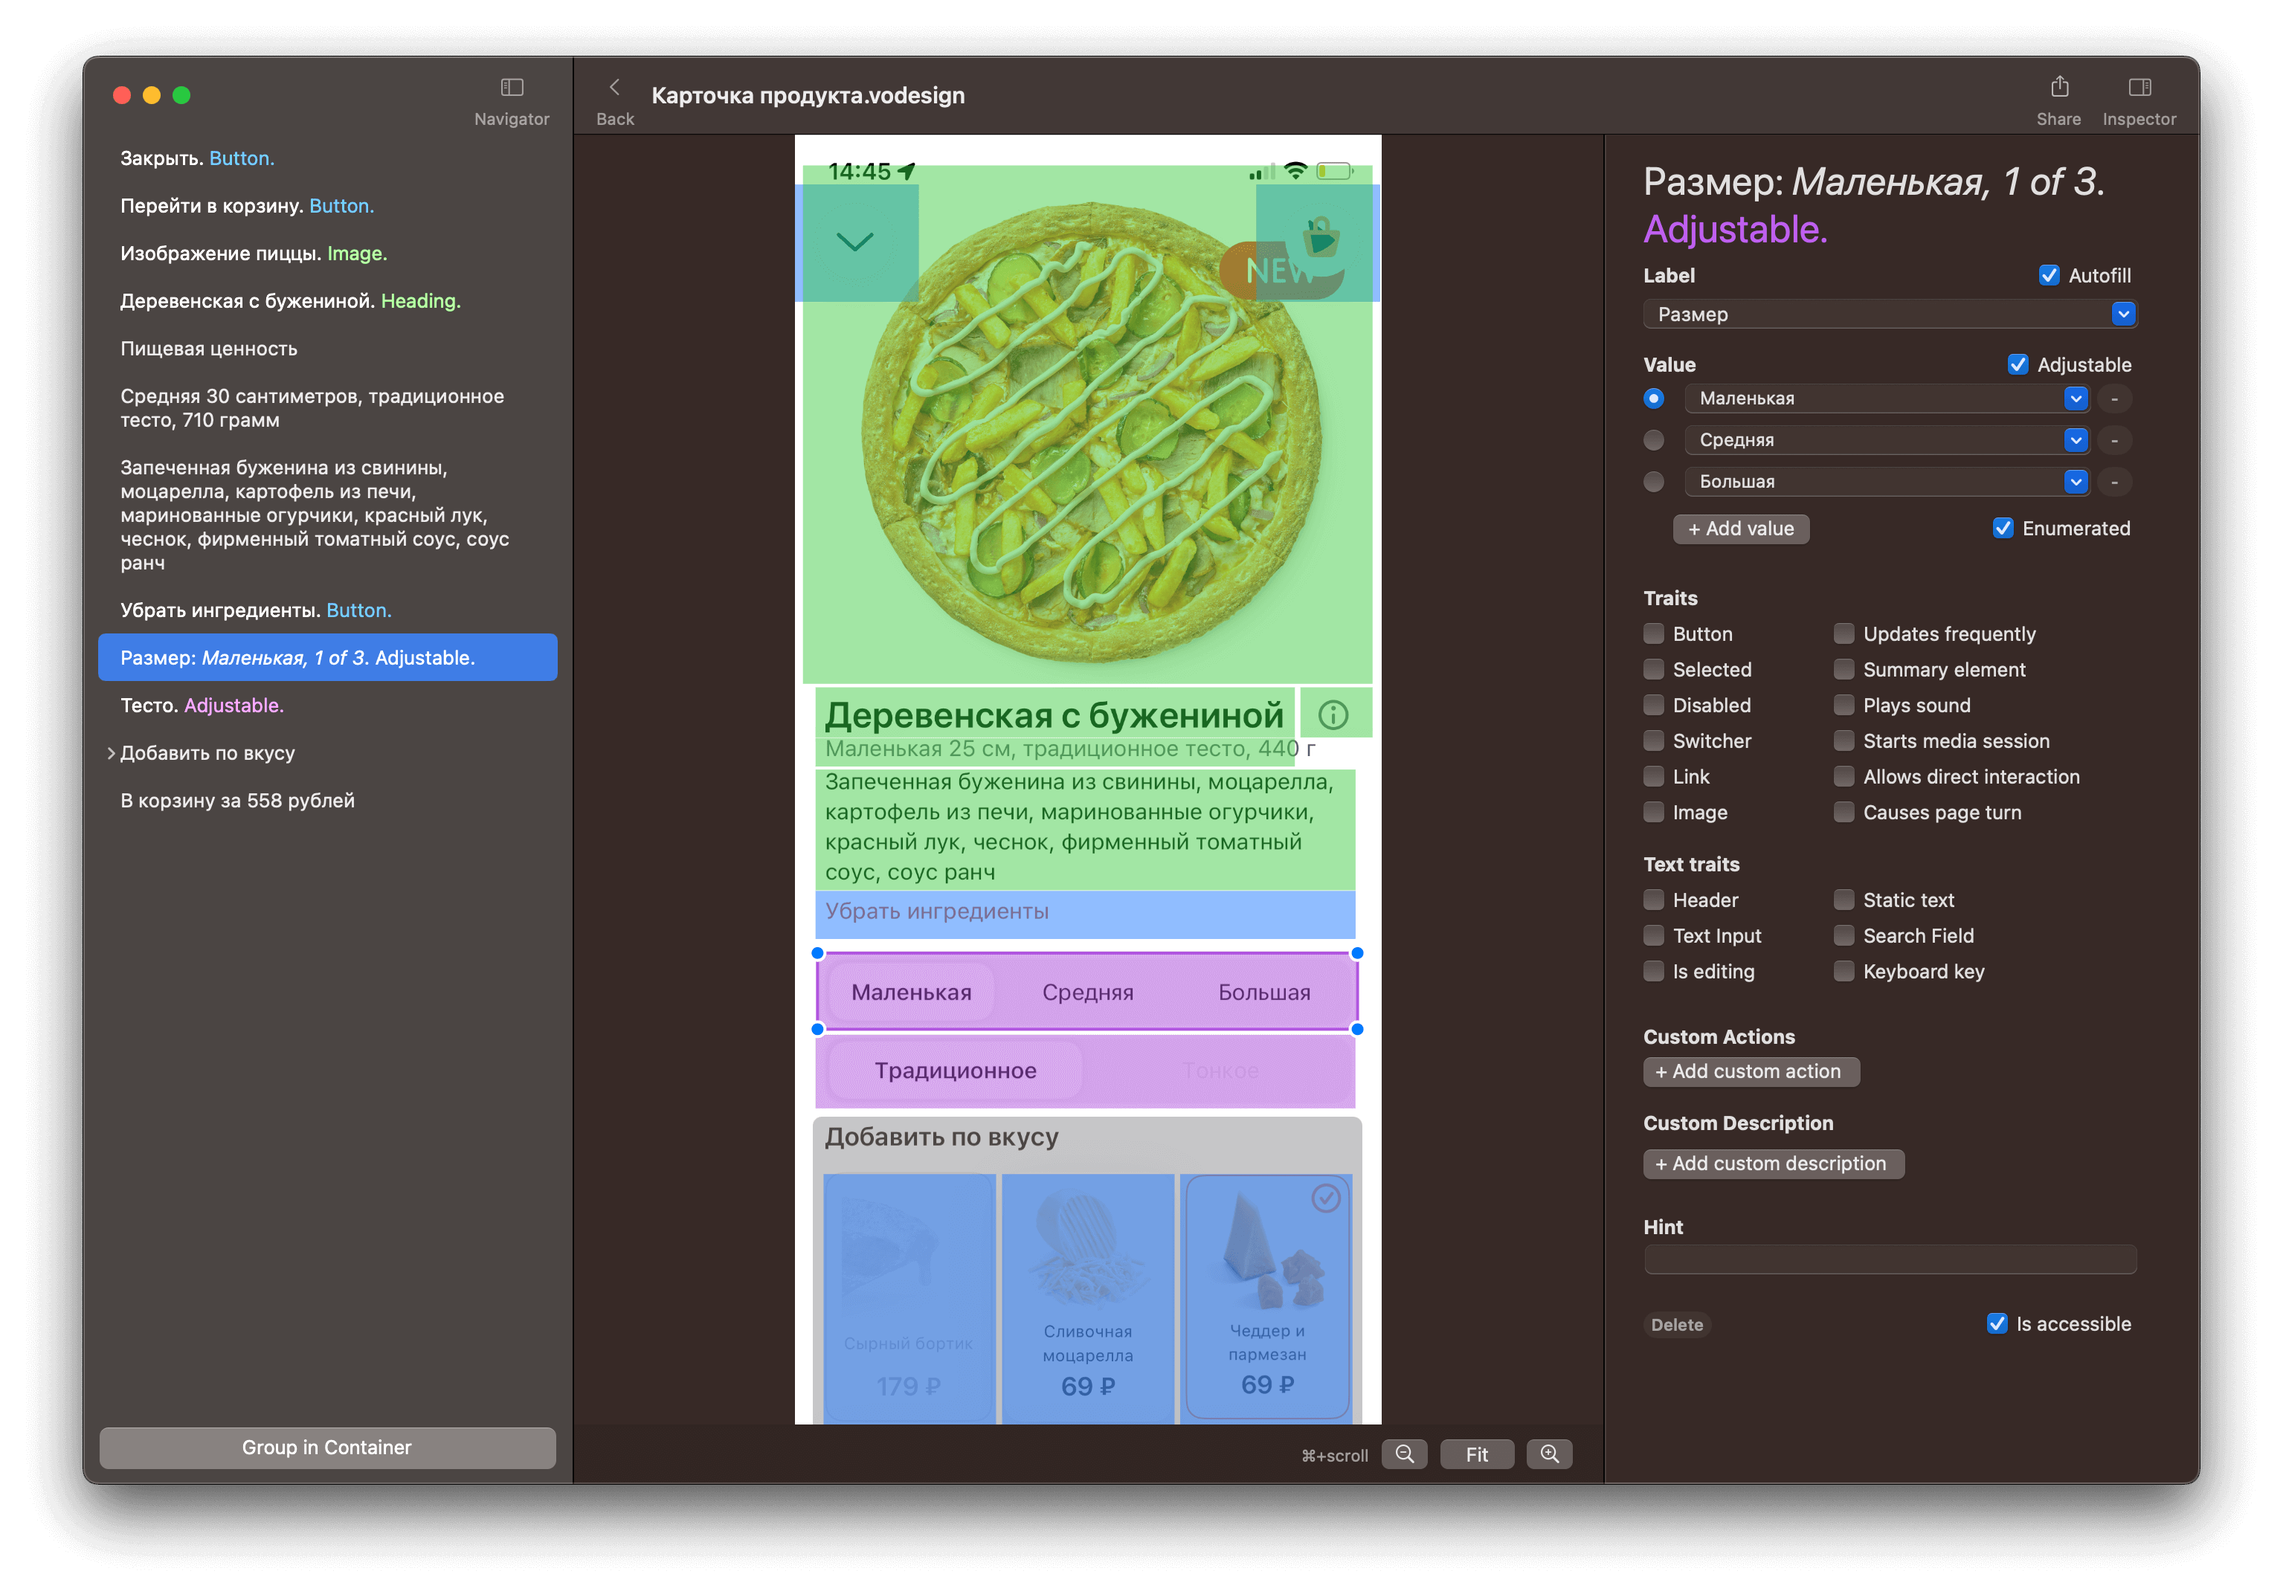
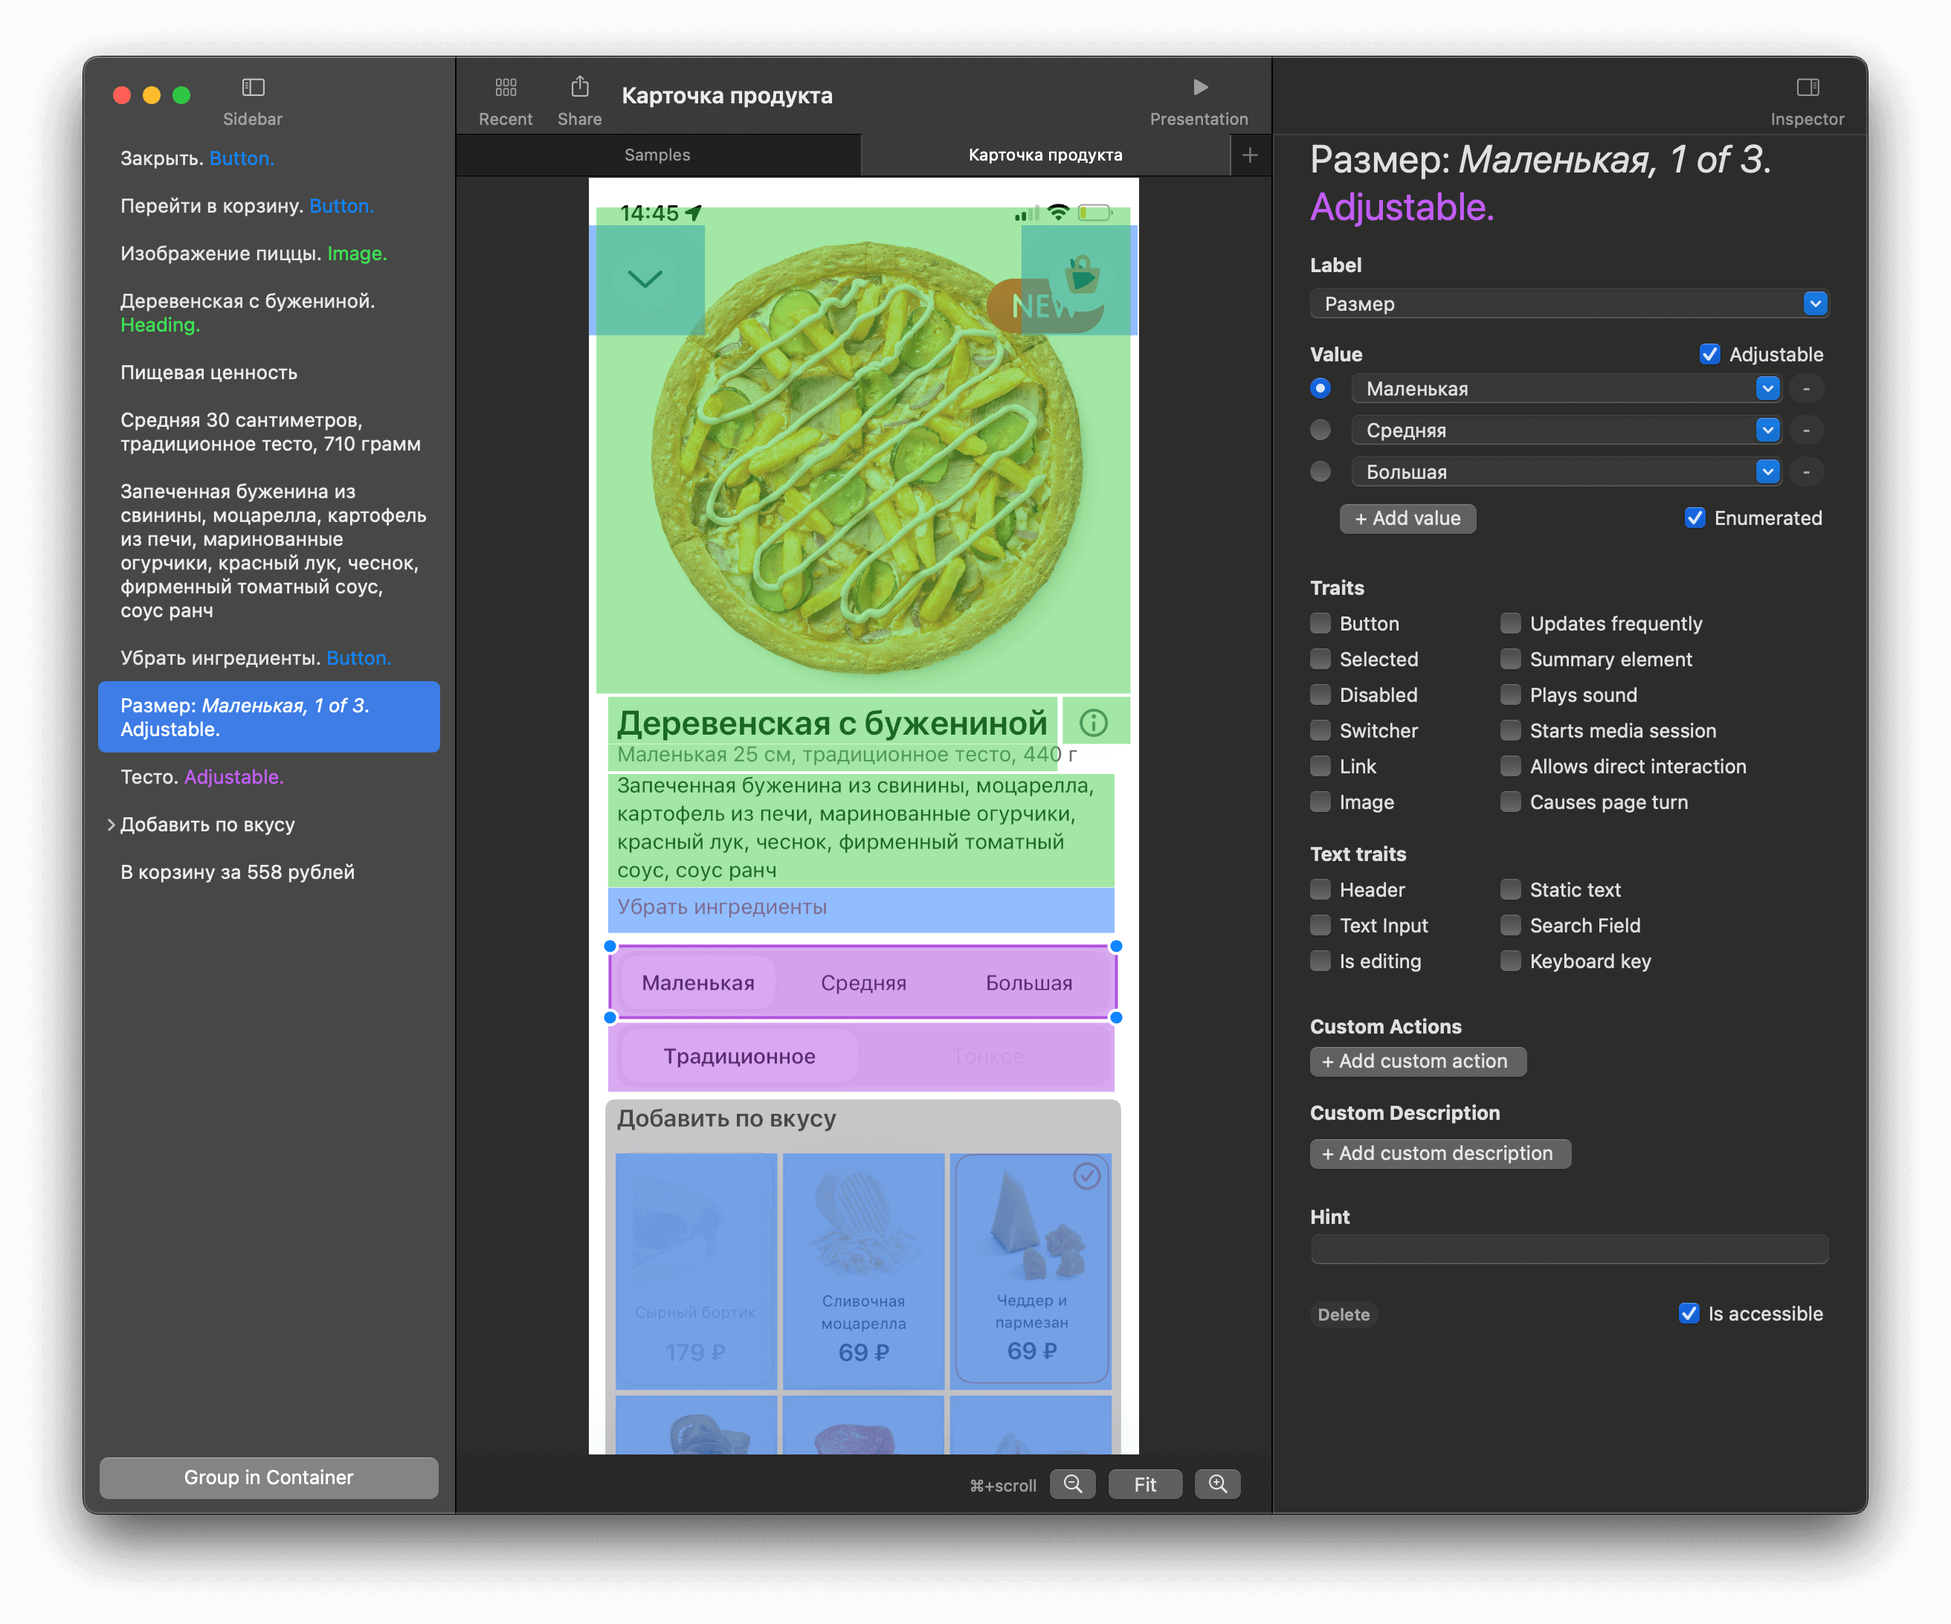
Update russian version

Changed region(s): [[0.0312, 0.0312, 0.9688, 0.9375], [0.6562, 0.375, 0.9062, 0.7812], [0.7188, 0.8125, 0.75, 0.8438]]

diff --git a/voice-over-designer/ru.html b/voice-over-designer/ru.html
@@ -163,6 +163,23 @@
   </section>
 
   <section>
+  <h2>Презентация</h2>
+    <p>Вы можете открыть документ в режиме Презентации, чтобы обсудить его коллегами или протестировать самостоятельно. С помощью стрелок на клавиатуре можно перемещаться по элементам — почти как в VoiceOver на телефоне</p>
+
+    <picture>
+      <source
+      srcset="ru/PresentationDark.png"
+      media="(prefers-color-scheme: dark)"
+      />
+      <img
+      class="featureImage"
+      src="ru/PresentationLight.png"
+      />
+    </picture>
+
+  </section>
+
+  <section>
     <h2>Прототипируйте</h2>
 
     <p>После разметки откройте макет на айфоне в приложении VoiceOver Preview и послушайте, как результат звучит для незрячего человека.</p>

diff --git a/voice-over-designer/index.html b/voice-over-designer/index.html
@@ -164,7 +164,7 @@
   </section>
 
   <section>
-    <h2>Testing or presenting to colleagues</h2>
+    <h2>Presentation</h2>
       <p>You can run your accessible design in presentation mode to discuss it with colleagues and test it yourself. You can repeat the VoiceOver navigation using the keyboard and read descriptions of elements</p>
 
       <picture>
